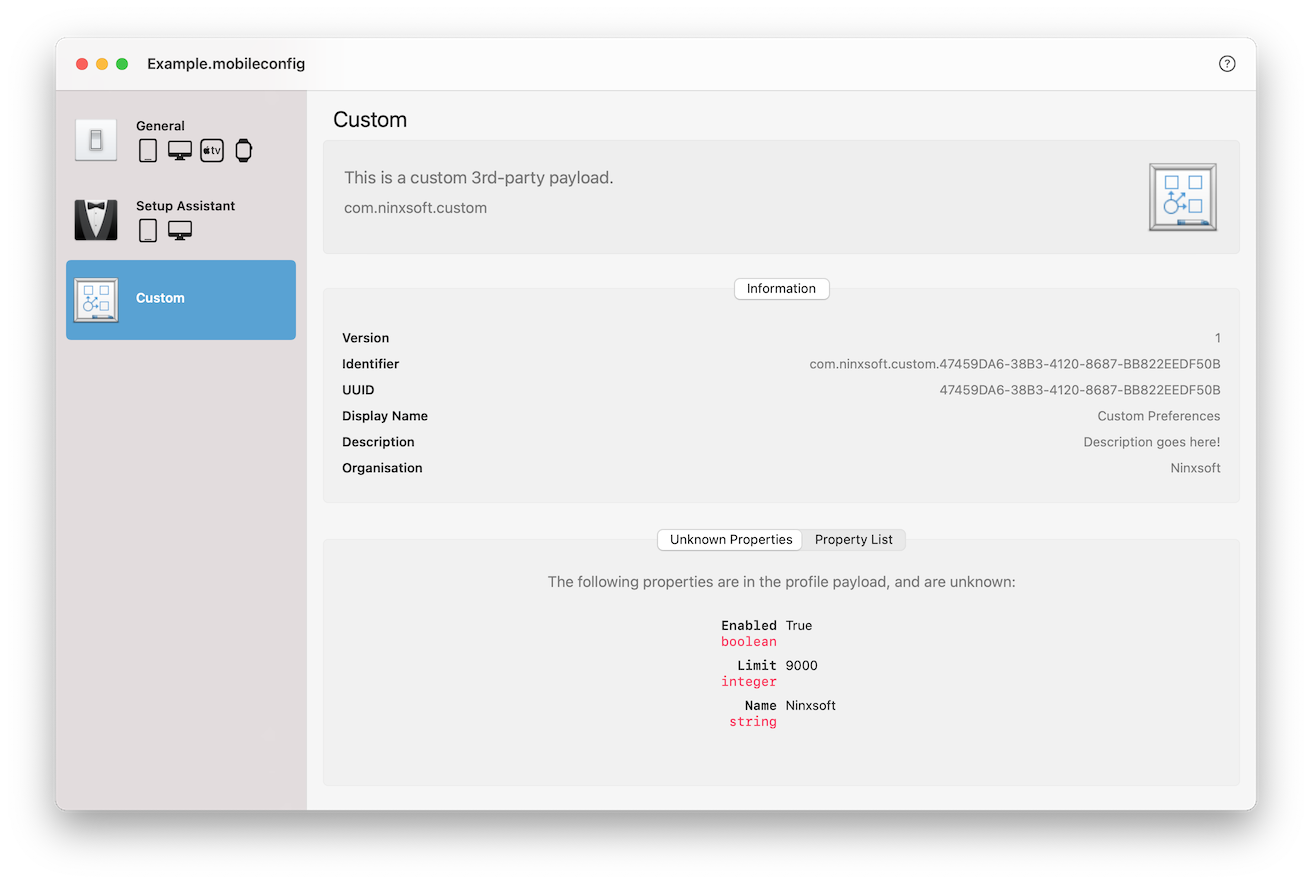
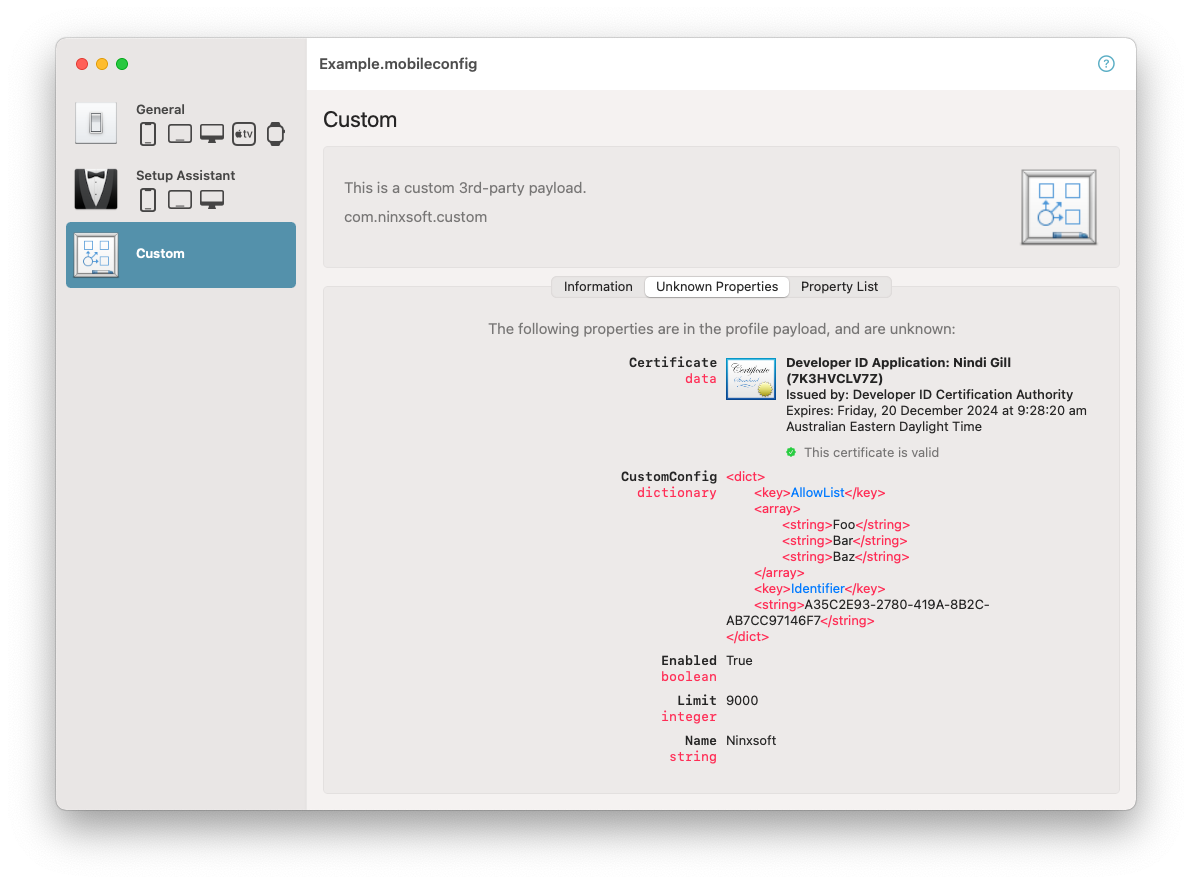
Updated README with 2.0 changes

diff --git a/README.md b/README.md
@@ -15,9 +15,8 @@ If the answer is yes to any of the above, then **Low Profile** is the app for **
 ## Features
 
 * [x] Displays details for all Apple [supported payloads](https://developer.apple.com/documentation/devicemanagement/profile-specific_payload_keys):
-  * Description
-  * Payload Type
-  * Supported Platforms (iOS, macOS, tvOS, watchOS)
+  * Description + Payload Type
+  * Supported Platforms (iOS, iPadOS, macOS, tvOS, watchOS)
   * Payload-specific information (ie. Identifier, UUID, Display Name, Organisation, etc.)
   * Payload Availability
   * Properties:
@@ -28,6 +27,8 @@ If the answer is yes to any of the above, then **Low Profile** is the app for **
     ![Payload](Readme%20Resources/Payload.png)
 
 * [x] Displays details for custom 3rd-party payloads:
+  * Including certificate data
+  * Including custom arrays and dictionaries
 
   ![Custom](Readme%20Resources/Custom.png)
 
@@ -43,7 +44,7 @@ If the answer is yes to any of the above, then **Low Profile** is the app for **
 
 * Swift **5.5**.
 * Xcode **13.0**.
-* Runs on macOS Big Sur **11.0** and later.
+* Runs on macOS Monterey **12.0** and later.
 
 ## Download
 
@@ -54,10 +55,23 @@ Grab the latest version of **Low Profile** from the [releases page](https://gith
 * Project created and maintained by Nindi Gill ([ninxsoft](https://github.com/ninxsoft)).
 * Documentation and icons sourced from [here](https://developer.apple.com/documentation/devicemanagement) and [here](https://support.apple.com/en-au/guide/mdm/welcome/web).
 * Filippo Maguolo ([filom](https://github.com/filom)) for [AS1NDecoder](https://github.com/filom/ASN1Decoder), used in reading certificate data.
+* JP Simard ([jpsim](https://github.com/jpsim)) for [Yams](https://github.com/jpsim/Yams), used to import YAML.
 * Marcus Ransom ([@marcusransom](https://twitter.com/marcusransom)) for the awesome app name.
 * James Smith ([smithjw](https://github.com/smithjw)) for the shiny new app icon.
 
 ## Version History
+
+* 2.0
+  * Payload information is now downloaded dynamically
+    * Switched from Property List to YAML format (smaller file size)
+    * If unable to download payload information, default to app bundle
+  * Entire certificate chains are now shown for signed configuration profiles
+  * Added support for certificate data within payload properties
+  * Improved formatting of payload properties with custom arrays and dictionaries
+  * Low Profile will now check for updates on app launch
+  * Significant UI cleanup (condensed tabs and overlapping views)
+  * All text strings can be highlighted and copied to clipboard
+  * General code cleanup
 
 * 1.0
   * Shiny new app icon (thanks [smithjw](https://github.com/smithjw))
